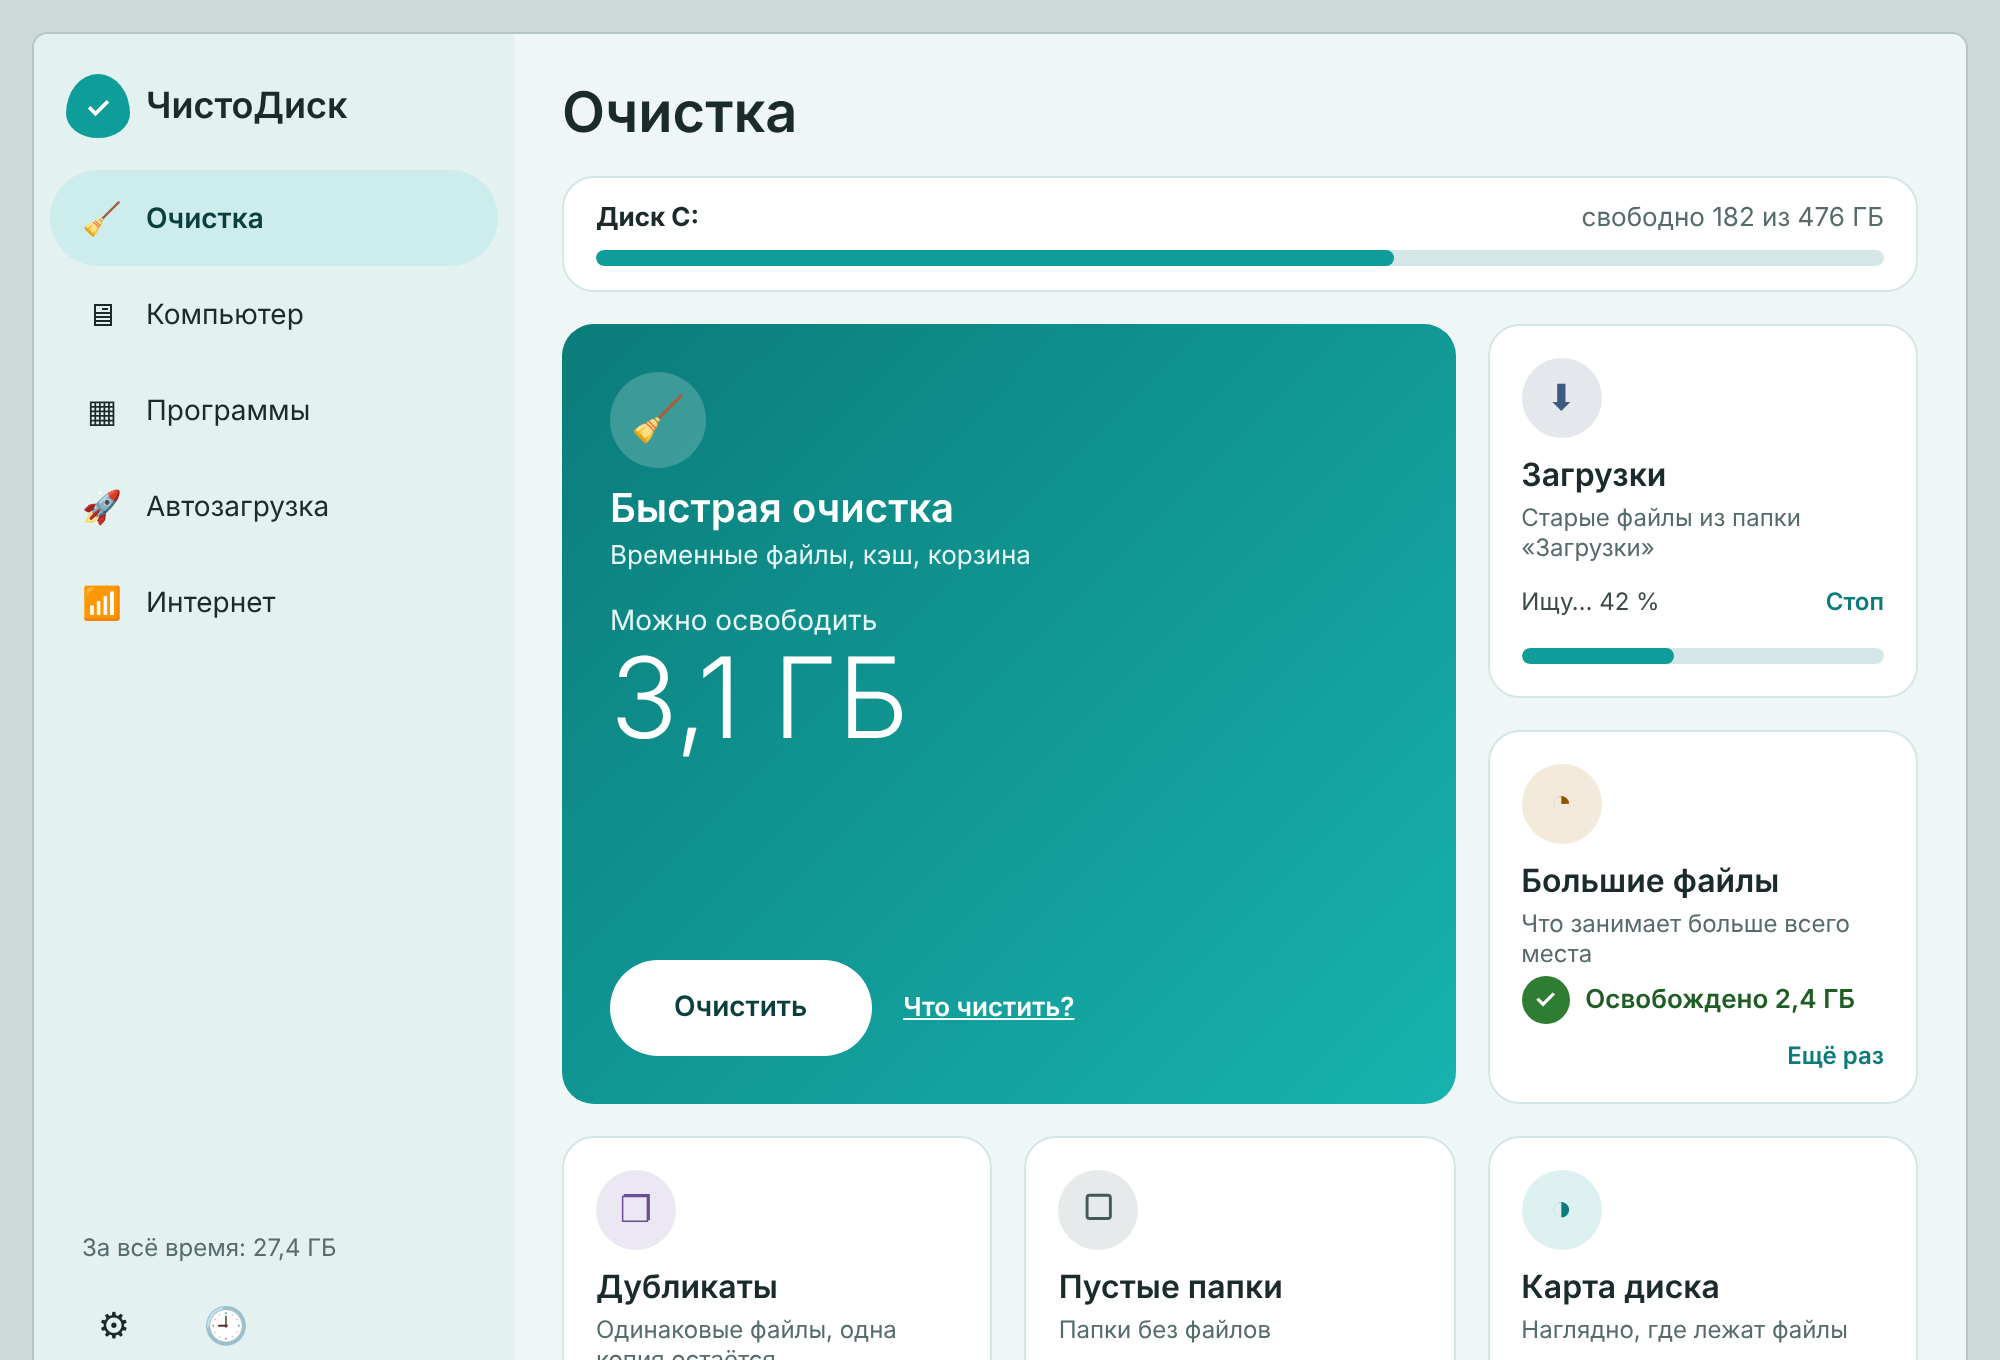
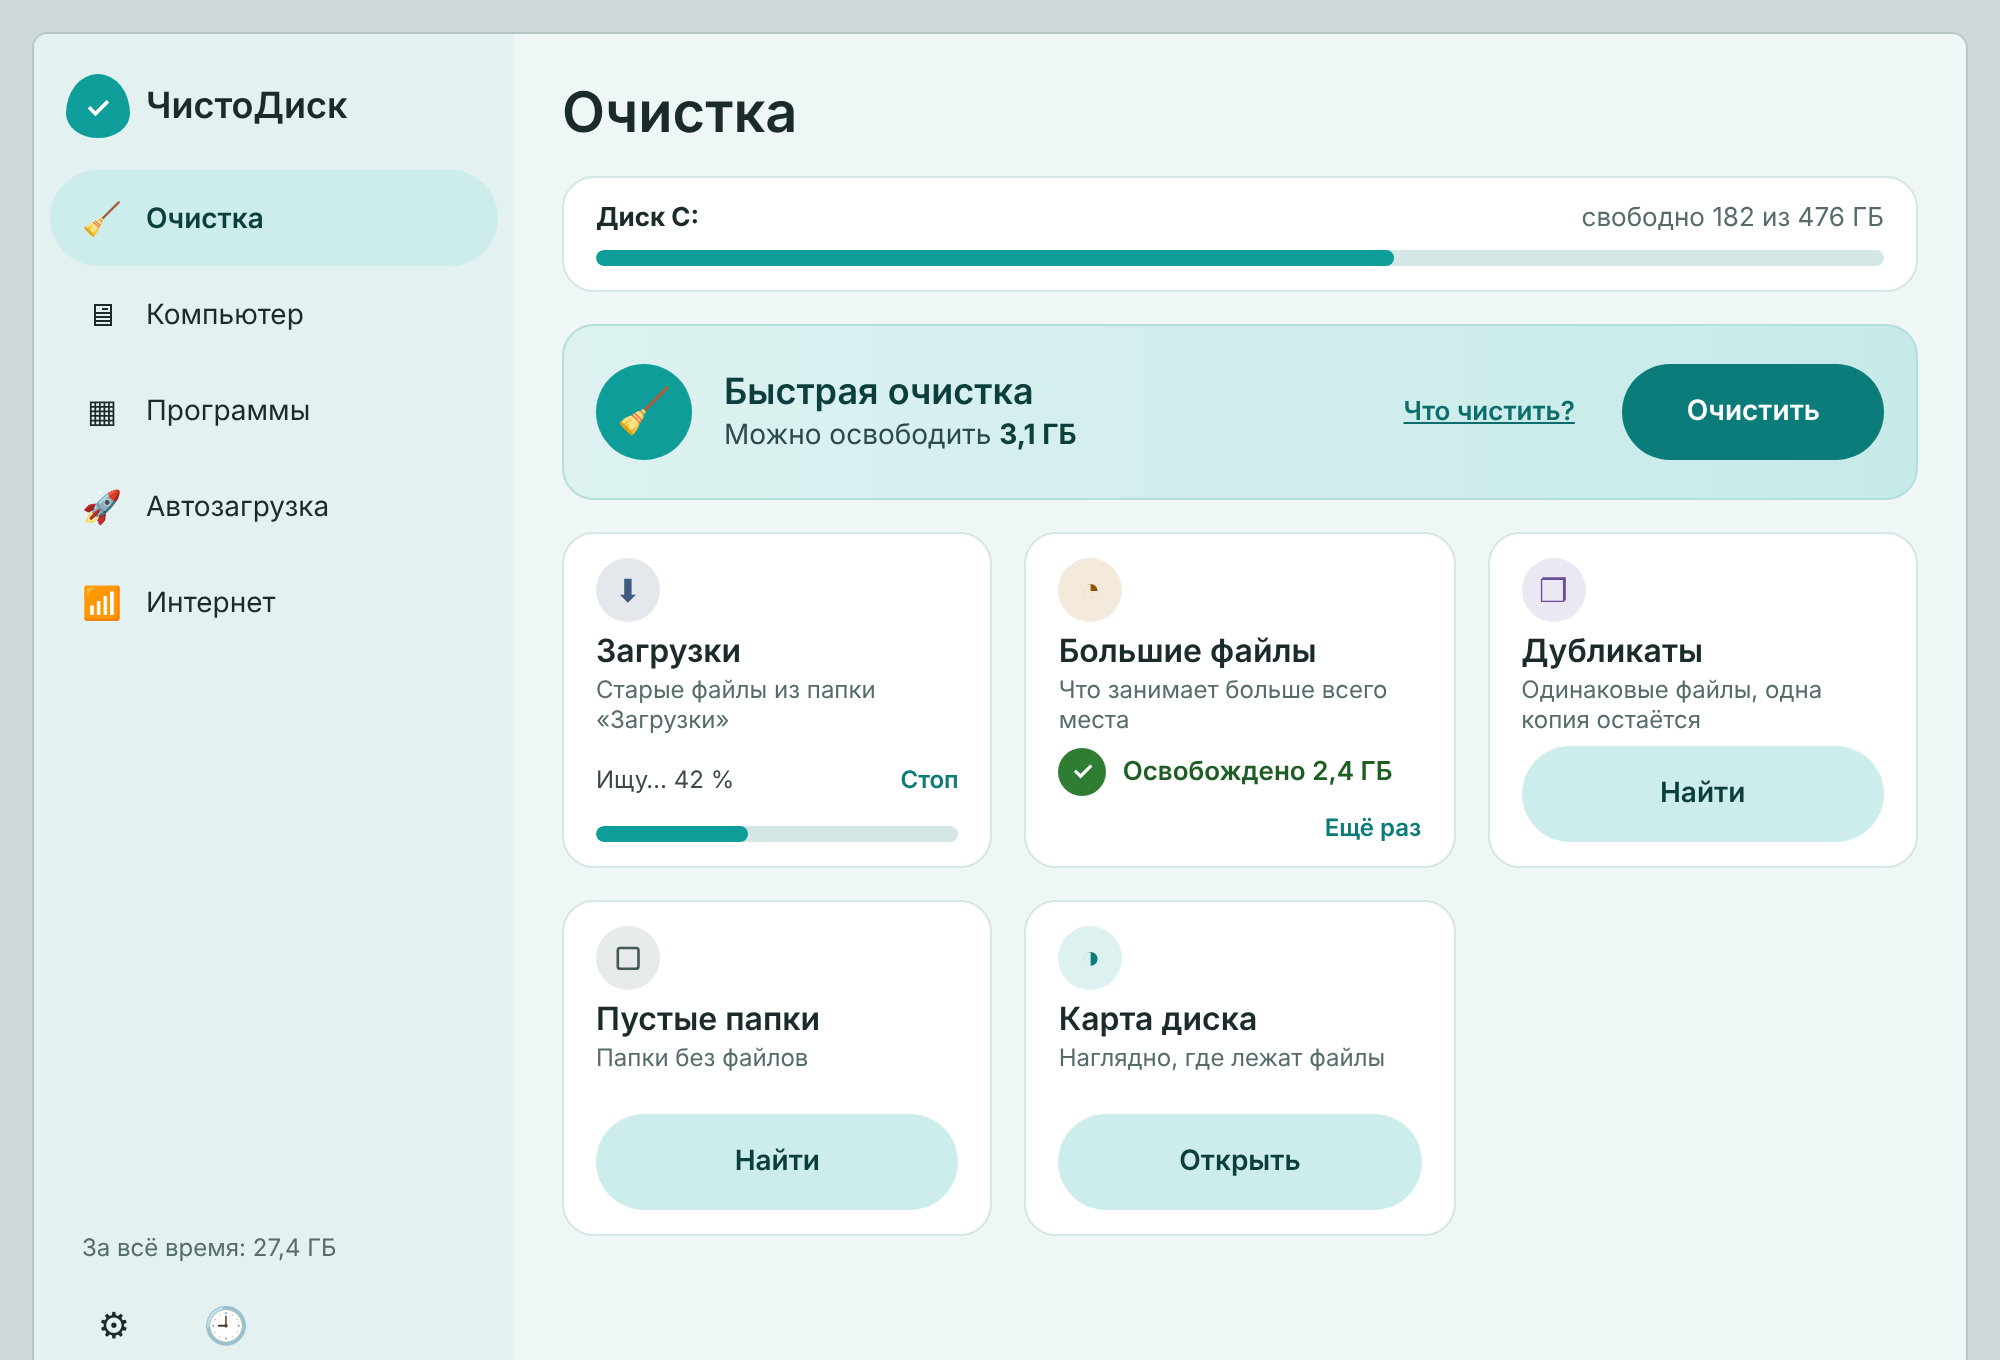
chistka-pk: быстрая очистка компактной полосой

diff --git a/projects/chistka-pk/docs/mockup-1.3b.html b/projects/chistka-pk/docs/mockup-1.3b.html
@@ -26,25 +26,23 @@ h1{font-size:28px;font-weight:600;line-height:1.1}
 .disk .t span{color:#566B6B}
 .bar{height:8px;border-radius:4px;background:#D5E6E6;overflow:hidden}
 .bar i{display:block;height:100%;width:62%;background:#0F9D9A;border-radius:4px}
-.grid{display:grid;grid-template-columns:repeat(3,1fr);grid-template-rows:repeat(3,1fr);gap:16px;flex:1;min-height:0}
-.tile{background:#fff;border:1px solid #D5E6E6;border-radius:16px;padding:16px;display:flex;flex-direction:column;gap:4px;transition:border-color .12s,transform .12s}
+.grid{display:grid;grid-template-columns:repeat(3,1fr);grid-template-rows:repeat(2,minmax(0,168px));gap:16px;align-content:start}
+.tile{background:#fff;border:1px solid #D5E6E6;border-radius:16px;padding:12px 16px;display:flex;flex-direction:column;gap:2px;overflow:hidden;transition:border-color .12s,transform .12s}
 .tile:hover{border-color:#0F9D9A;transform:translateY(-1px)}
-.dot{width:40px;height:40px;border-radius:50%;display:grid;place-items:center;font-size:18px;margin-bottom:4px}
+.dot{width:32px;height:32px;border-radius:50%;display:grid;place-items:center;font-size:16px;margin-bottom:2px}
 .c1{background:rgba(15,157,154,.14);color:#0B7C7A}.c2{background:rgba(61,90,128,.14);color:#3D5A80}.c3{background:rgba(178,106,0,.14);color:#8F5500}.c4{background:rgba(123,94,167,.14);color:#6a4d96}.c5{background:rgba(86,107,107,.14);color:#455858}.c6{background:rgba(46,125,50,.14);color:#2E7D32}
 .tile b{font-size:16px;font-weight:600}
 .tile .d{font-size:12px;color:#566B6B}
 .act{margin-top:auto;height:48px;border-radius:24px;border:0;background:#CDEDEC;color:#0B3F3E;font:600 14px "Segoe UI",system-ui;cursor:pointer}
 .act:hover{filter:brightness(.96)}
-.main-t{grid-column:1/3;grid-row:1/3;background:linear-gradient(135deg,#0B7C7A,#17B3AE);border:0;color:#fff;padding:24px;position:relative}
-.main-t:hover{border:0}
-.main-t .dot{background:rgba(255,255,255,.2);color:#fff;width:48px;height:48px;font-size:22px}
-.main-t b{font-size:20px}
-.main-t .d{color:#E6F8F7;font-size:13px}
-.big{font-size:14px;margin-top:12px;color:#E6F8F7}
-.big strong{display:block;font-size:56px;font-weight:300;color:#fff;line-height:1.1}
-.go{margin-top:auto;display:flex;align-items:center;gap:16px}
-.go .act{background:#fff;color:#0B3F3E;padding:0 32px}
-.go a{color:#fff;font-weight:600;font-size:13px;text-decoration:underline;cursor:pointer}
+.quick{height:88px;flex:none;display:flex;align-items:center;gap:16px;padding:0 16px;border-radius:16px;background:linear-gradient(90deg,#DDF2F1,#C6EAE8);border:1px solid #B5DEDC}
+.quick .dot{background:#0F9D9A;color:#fff;width:48px;height:48px;font-size:22px;margin:0;flex:none}
+.quick .tx{flex:1;min-width:0;display:flex;flex-direction:column;gap:2px}
+.quick .tx b{font-size:18px;font-weight:600;color:#0B3F3E}
+.quick .tx span{font-size:14px;color:#2d4a4a}
+.quick .tx strong{font-weight:700;color:#0B3F3E}
+.quick a{color:#0B6E6C;font-weight:600;font-size:13px;text-decoration:underline;cursor:pointer;padding:12px 8px}
+.quick .act{margin:0;height:48px;padding:0 32px;background:#0B7C7A;color:#fff}
 .res{display:flex;align-items:center;gap:8px;margin-top:auto;font-weight:600;color:#1E5E24;font-size:13px}
 .res .ok{width:24px;height:24px;border-radius:50%;background:#2E7D32;color:#fff;display:grid;place-items:center;font-size:13px}
 .prog{margin-top:auto}
@@ -73,14 +71,13 @@ h1{font-size:28px;font-weight:600;line-height:1.1}
    <div class="t"><b>Диск C:</b><span>свободно 182 из 476 ГБ</span></div>
    <div class="bar"><i></i></div>
   </div>
+  <div class="quick">
+   <div class="dot">🧹</div>
+   <div class="tx"><b>Быстрая очистка</b><span>Можно освободить <strong>3,1 ГБ</strong></span></div>
+   <a>Что чистить?</a>
+   <button type="button" class="act">Очистить</button>
+  </div>
   <div class="grid">
-   <div class="tile main-t">
-    <div class="dot">🧹</div>
-    <b>Быстрая очистка</b>
-    <div class="d">Временные файлы, кэш, корзина</div>
-    <div class="big">Можно освободить <strong>3,1 ГБ</strong></div>
-    <div class="go"><button type="button" class="act">Очистить</button><a>Что чистить?</a></div>
-   </div>
    <div class="tile">
     <div class="dot c2">⬇</div><b>Загрузки</b><div class="d">Старые файлы из папки «Загрузки»</div>
     <div class="prog"><div class="l"><span>Ищу… 42 %</span><u>Стоп</u></div><div class="bar"><i></i></div></div>

diff --git a/projects/chistka-pk/docs/design.md b/projects/chistka-pk/docs/design.md
@@ -113,7 +113,7 @@
 Макет: `docs/mockup-1.3.html` (экран «Интернет» после замера, с новой левой панелью). Seed, палитра, шрифты, сетка 8 px, скругления — как в 1.2. Тёмная тема — по системе. Анимации выключаются при «Убрать анимации».
 
 ### Компактная навигация (заменяет группы 1.2 и первый набросок 1.3)
-Макет: `docs/mockup-1.3b.html` (экран «Очистка»-пульт; плитка «Загрузки» в процессе, «Большие файлы» — результат «Освобождено 2,4 ГБ», «Быстрая очистка» — до запуска). Групп (`ExpansionTile`) больше нет.
+Макет: `docs/mockup-1.3b.html` (экран «Очистка»-пульт; плитка «Загрузки» в процессе, «Большие файлы» — результат «Освобождено 2,4 ГБ», «Быстрая очистка» — компактная полоса до запуска). Групп (`ExpansionTile`) больше нет.
 
 **Левая панель** (плоский список, все пункты видны без прокрутки при высоте окна от 560):
 - Сверху логотип (капля + «ЧистоДиск») — клик → диалог «О программе».
@@ -123,8 +123,9 @@
 
 **Экран «Очистка» — пульт** (заголовок «Очистка», справа ничего лишнего):
 - Сверху полоска свободного места: «Диск C: свободно 182 из 476 ГБ», `LinearProgressIndicator` 8 (занято; > 90 % — #B26A00).
-- Ниже сетка плиток `Card` (3 колонки при ширине контента ≥ 720, 2 — от 480, иначе 1; отступ 16). Порядок: **Быстрая очистка** (главная, занимает 2 колонки × 2 ряда, градиент как герой 1.2), Загрузки, Большие файлы, Дубликаты, Пустые папки, Карта диска.
-- Плитка: иконка в кружке 40, название 16/w600, одна строка пояснения 12 серым, одна кнопка-действие внизу (`FilledButton.tonal`, 48; «Найти» или «Открыть»). Быстрая очистка: цифра «Можно освободить 3,1 ГБ» 40/w300, кнопка «Очистить» (`FilledButton`), под ней ссылка «Что чистить?» (`TextButton`).
+- Сразу под ней **Быстрая очистка** — компактная полоса-карточка на всю ширину, высота 88: слева иконка в кружке 48 (#0F9D9A, белая иконка), далее «Быстрая очистка» 18/w600 и строка «Можно освободить **3,1 ГБ**» 14 (цифра w700, не крупнее текста), справа `TextButton` «Что чистить?» и `FilledButton` «Очистить» (48). Фон спокойный: градиент от #DDF2F1 к #C6EAE8, рамка #B5DEDC, радиус 16. Узко (< 560): строка делится на два ряда, кнопка «Очистить» на всю ширину снизу.
+- Ниже сетка из 5 одинаковых плиток `Card` (3 колонки при ширине контента ≥ 720, 2 — от 480, иначе 1; отступ 16): Загрузки, Большие файлы, Дубликаты, Пустые папки, Карта диска. Высота ряда до 168. В 1000×680 всё помещается без прокрутки (2 ряда).
+- Плитка: иконка в кружке 32, название 16/w600, одна строка пояснения 12 серым, одна кнопка-действие внизу (`FilledButton.tonal`, 48; «Найти» или «Открыть»).
 - «Что чистить?» — выпадающая панель под плиткой (`ExpansionPanel`/`AnimatedSize` 200 мс): `CheckboxListTile` по категориям (временные, кэш браузеров, корзина, миниатюры, логи, остатки программ) с размером справа. Свернуто по умолчанию; выбор запоминается.
 - Состояния плитки (все внутри плитки, экран не меняется):
   1. Обычная — пояснение + кнопка.
